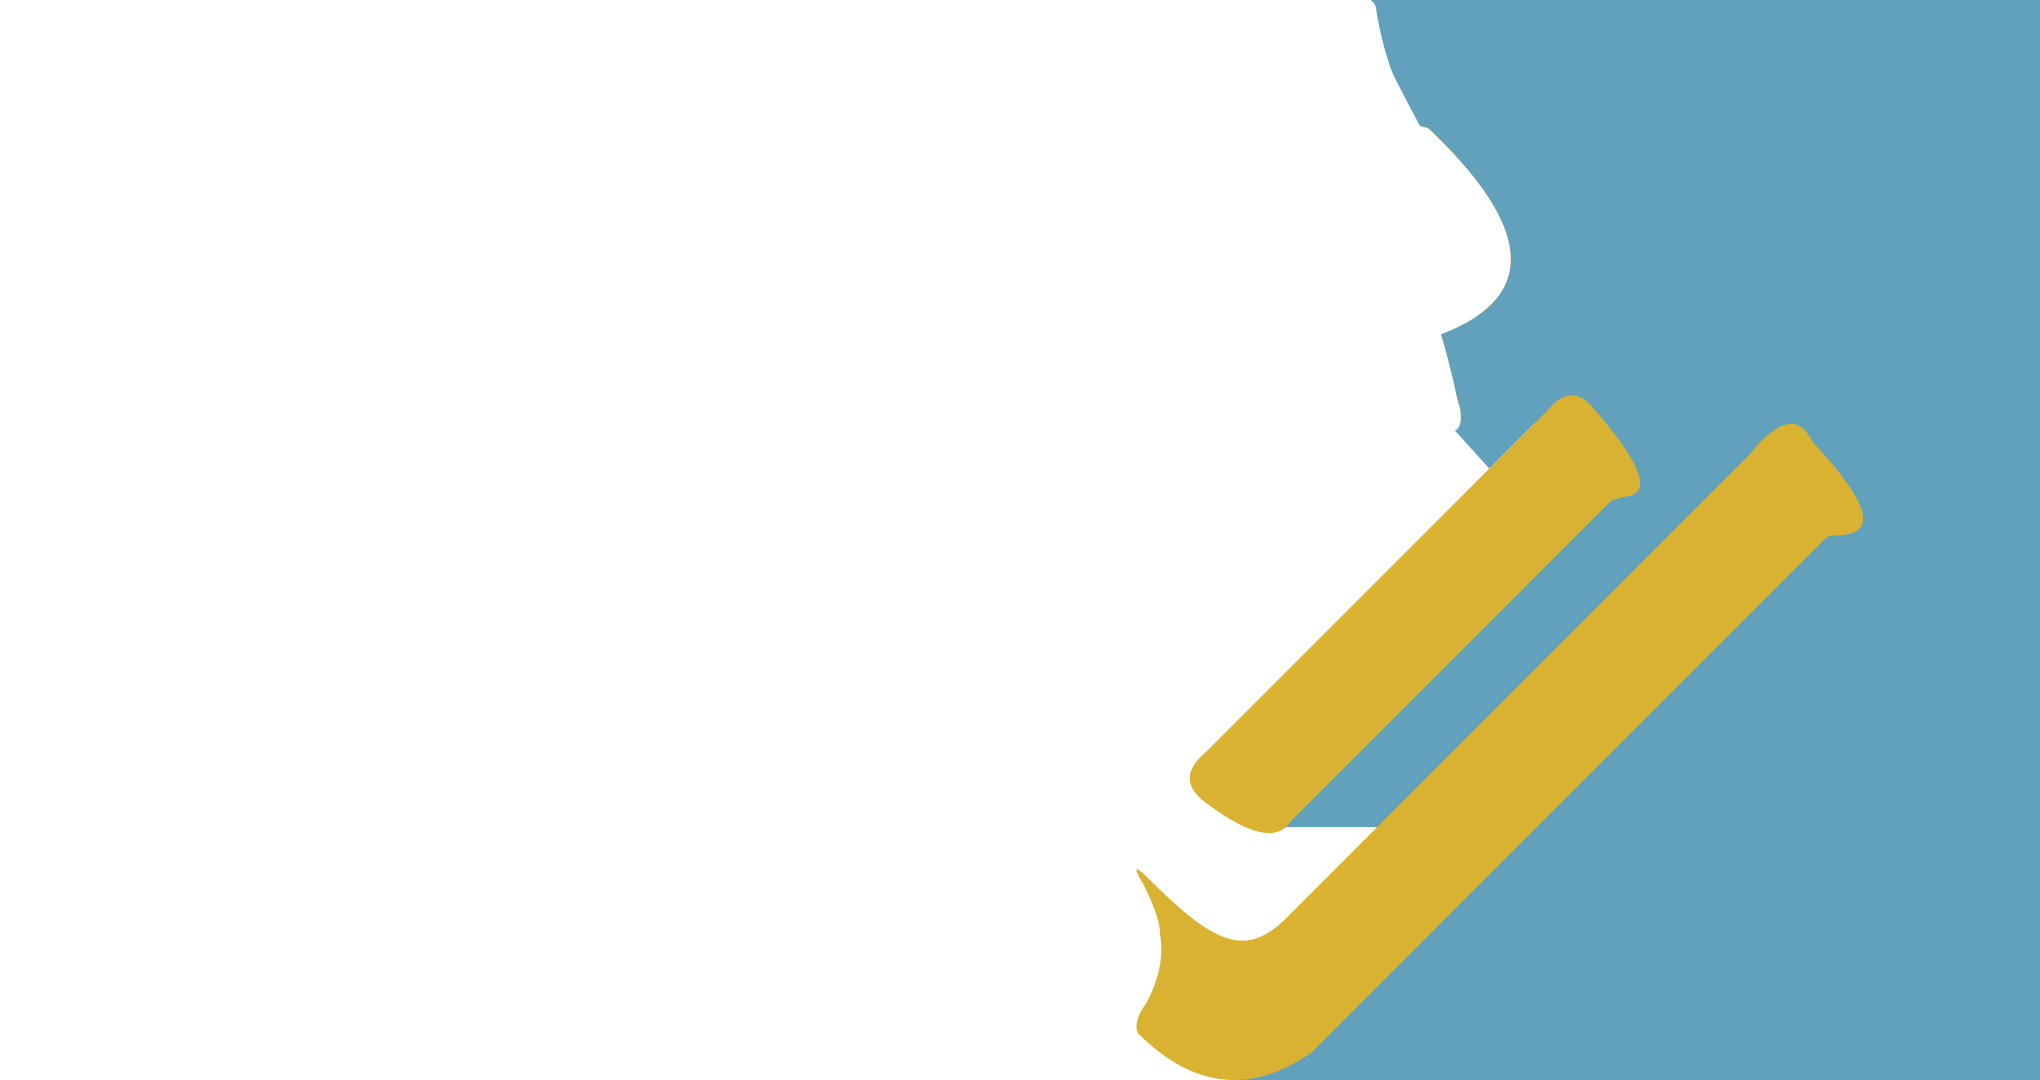
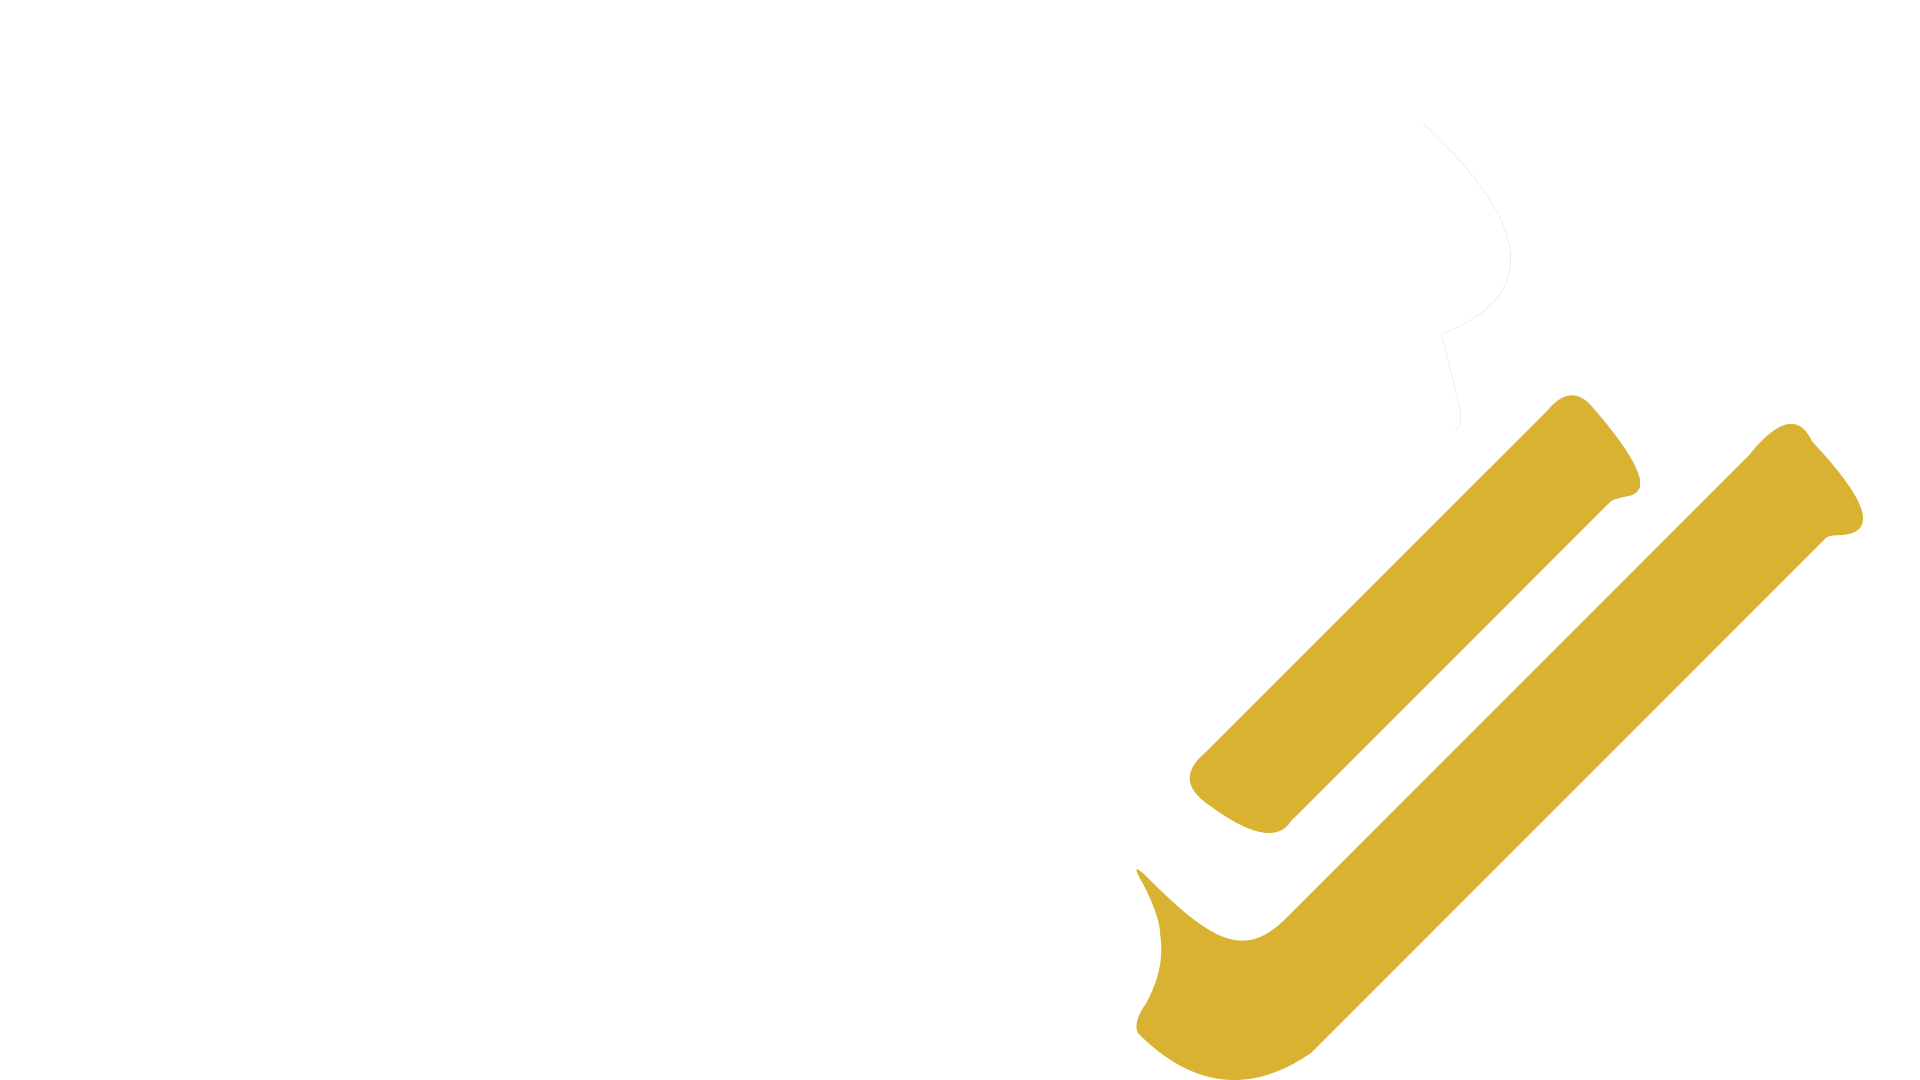
ANIMATION

diff --git a/src/components/bannerb/index.vue b/src/components/bannerb/index.vue
@@ -18,7 +18,7 @@ export default {
 
 <style lang="less" scoped>
 .banner-image {
-  background: #cd4a44;
+  background: #61a1bc;
   width: 100%;
   height: 100%;
   .bg {
@@ -29,6 +29,14 @@ export default {
     width: 100%;
     transform: translate(-50%, -50%);
   }
+
+  @base: 0;
+  @offset: 10px;
+  @offset2: 10px;
+  @scale: 1.2;
+  @animate1: -@base - @offset;
+  @animate2: -@base + @offset2;
+
   .animate-item {
     display: inline-block;
     position: absolute;
@@ -36,52 +44,41 @@ export default {
     animation-duration: 10s;
     animation-timing-function: linear;
     animation-iteration-count: infinite;
-    transform-origin: 50% 25%;
+    top: @base;
+    left: @base;
+    transform: translate(-@base, -@base) scale(@scale);
+    // transform-origin: 50% 15%;
   }
-
-  @base: -500px;
-  @offset: 20px;
-  @offset2: 10px;
-
-  @animate1: -@base - @offset;
-  @animate2: -@base + @offset2;
 
   .item1 {
-    // animation-name: item1;
-    top: 50%;
-    left: @base;
-    // height: 120%;
-    transform: translate(-@base, -50%) scale(1.52);
-    // transform-origin: 50% 25%;
+    animation-name: item1;
+    // z-index: 2;
   }
   .item2 {
-    // animation-name: item2;
-    top: 50%;
-    left: @base;
-    transform: translate(-@base, -50%) scale(1.52);
+    animation-name: item2;
   }
 
   @keyframes item1 {
     0% {
-      transform: translate(-@base, -50%);
+      transform: translate(-@base, -@base) scale(@scale);
     }
     50% {
-      transform: translate(@animate1, -50%);
+      transform: translate(-@offset, @offset) scale(@scale);
     }
     100% {
-      transform: translate(-@base, -50%);
+      transform: translate(-@base, -@base) scale(@scale);
     }
   }
   @keyframes item2 {
     0% {
-      transform: translate(-@base, -50%);
+      transform: translate(-@base, -@base) scale(@scale);
     }
     50% {
-      transform: translate(@animate2, -50%);
+      transform: translate(-@offset2, -@offset2) scale(@scale);
     }
     100% {
       // transform: translateX(0);
-      transform: translate(-@base, -50%);
+      transform: translate(-@base, -@base) scale(@scale);
     }
   }
 }

diff --git a/src/views/Service.vue b/src/views/Service.vue
@@ -143,6 +143,7 @@ export default {
     height: 100%;
   }
   .service-navs {
+    z-index: 10;
     .flex();
     position: absolute;
     top: 20px;
